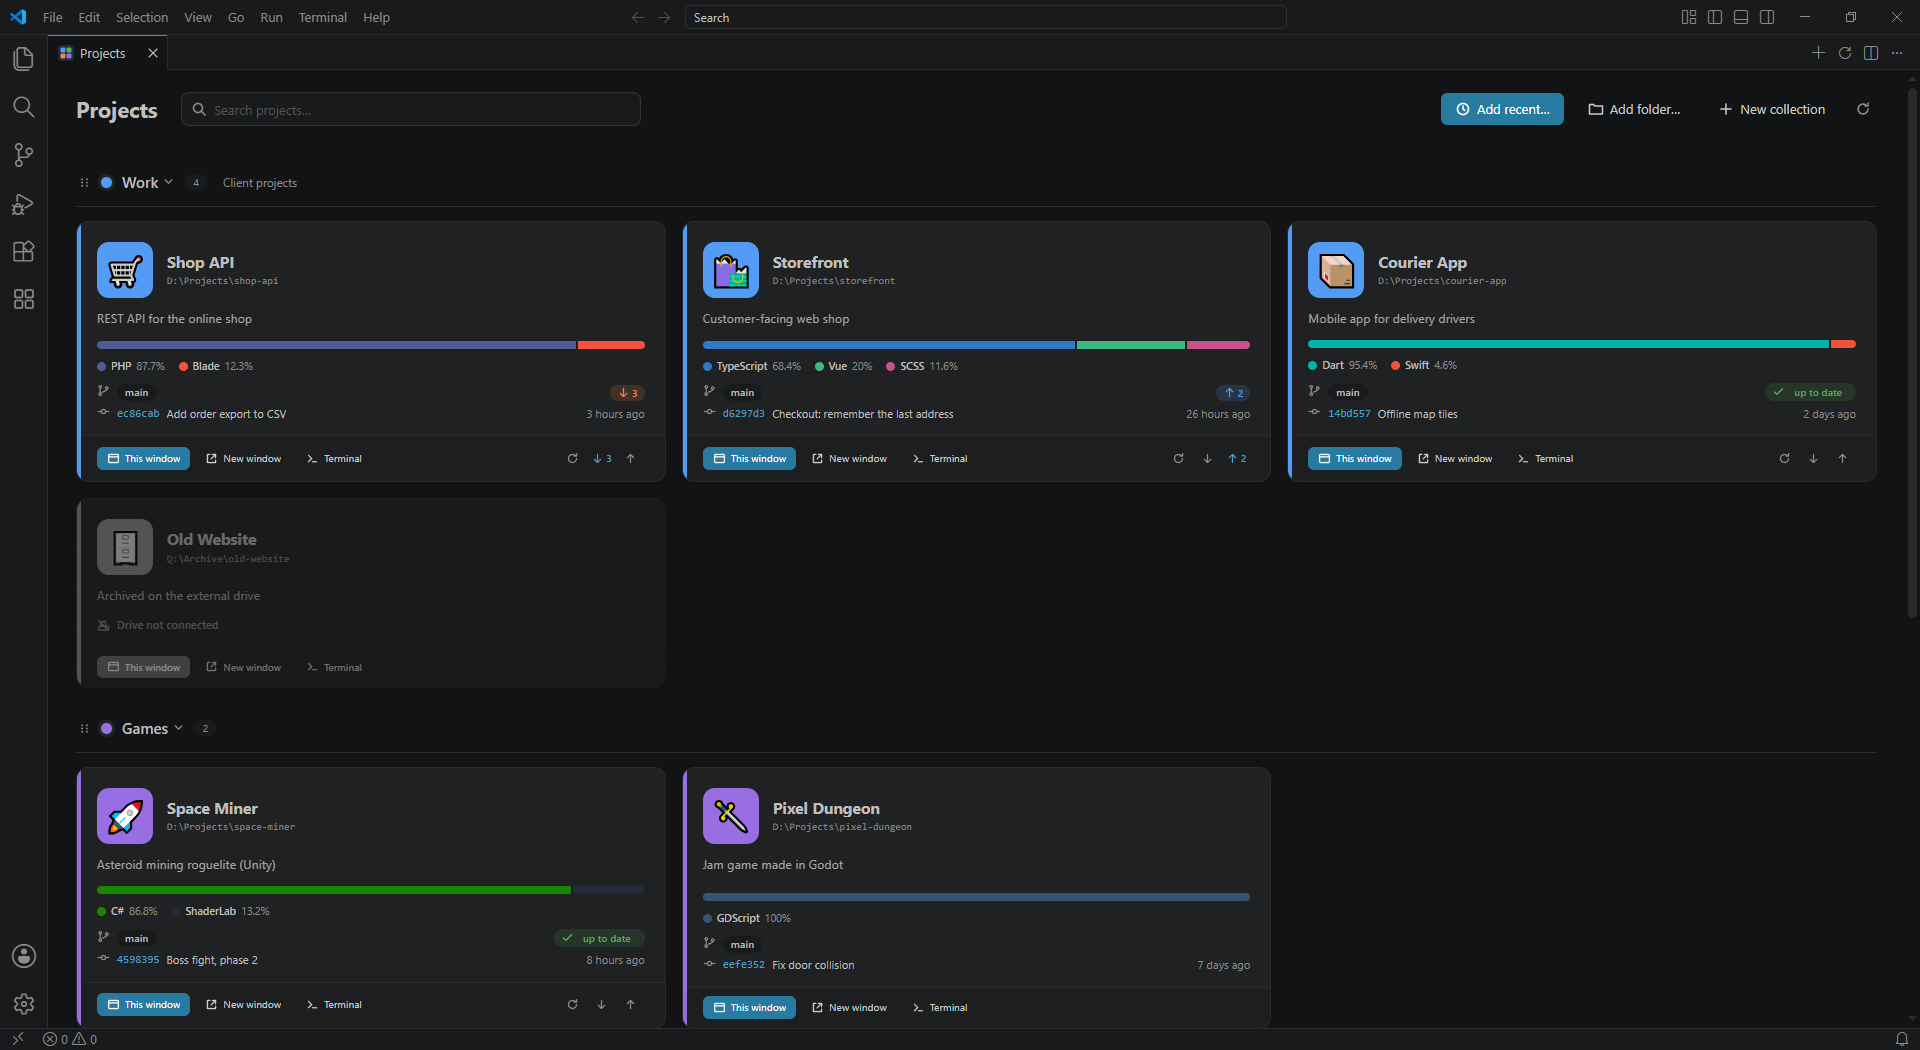
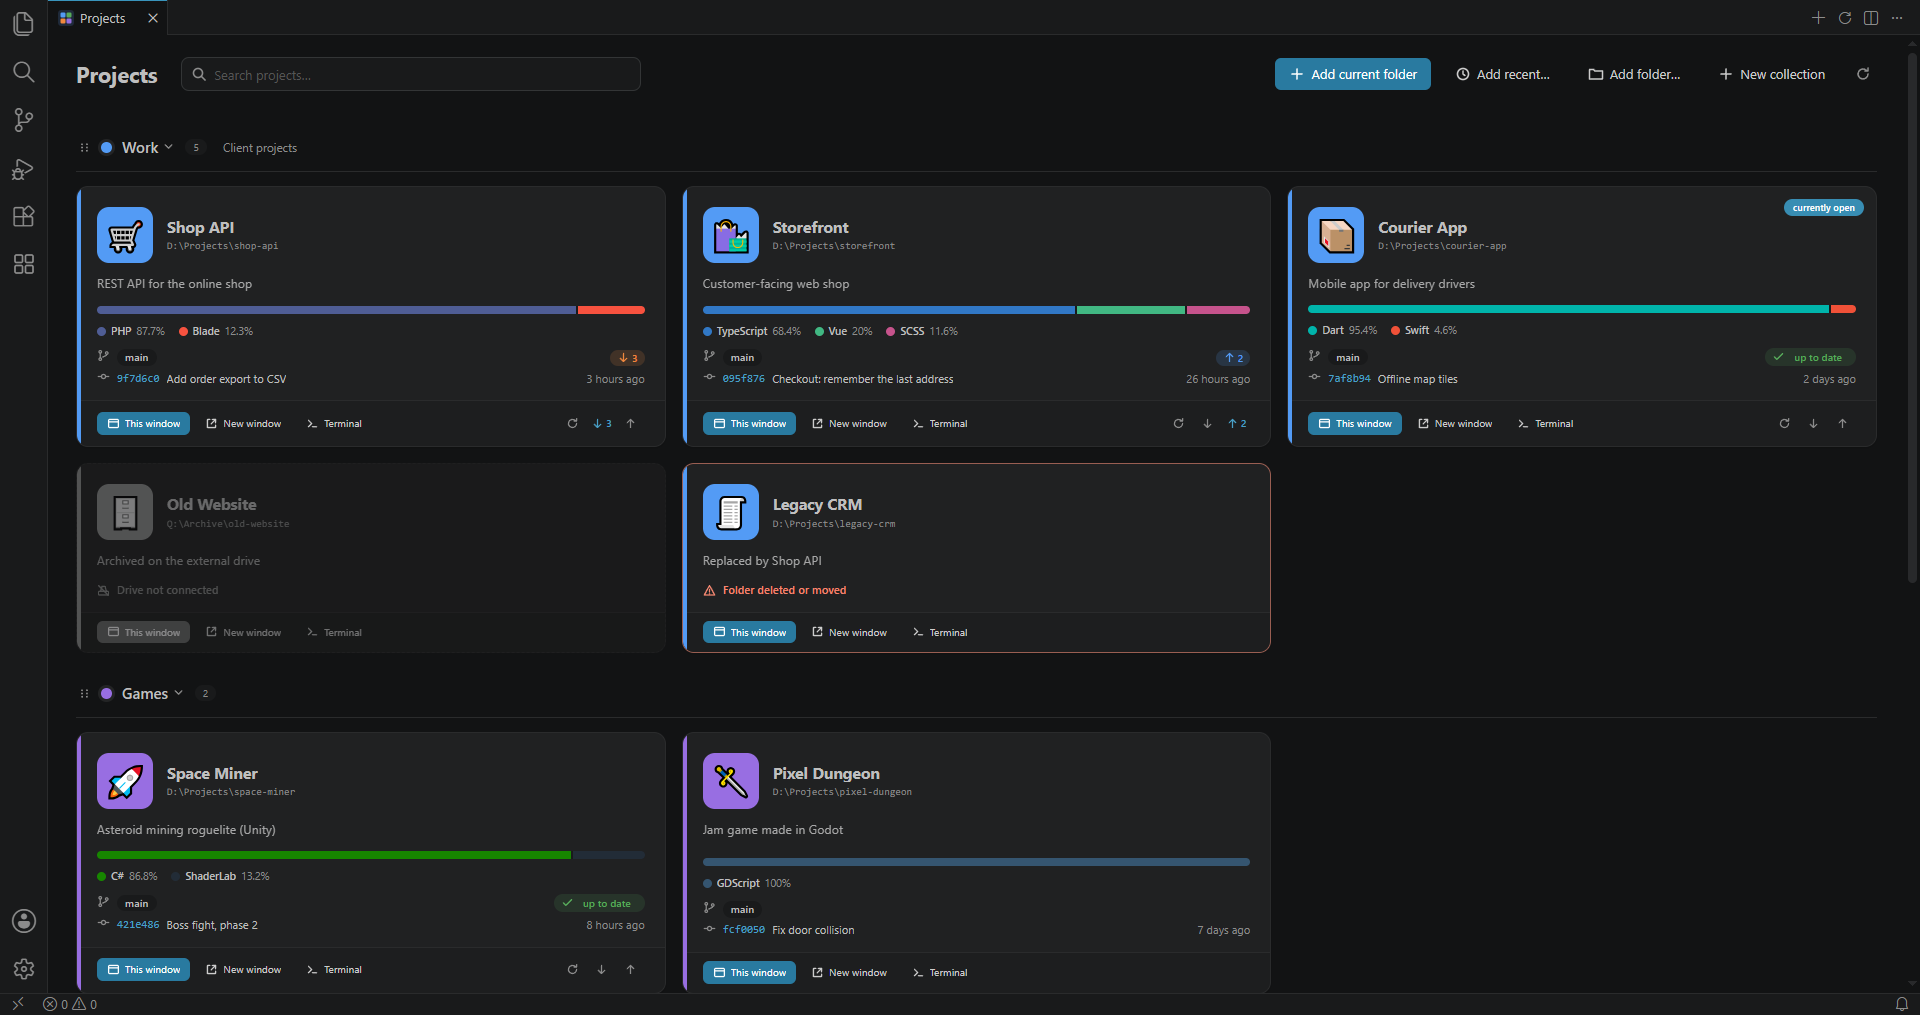
Open the dashboard in the JetBrains Home window (1.3.0)

diff --git a/jetbrains/src/main/kotlin/dominikmech/projecttiles/ui/HomeWindow.kt b/jetbrains/src/main/kotlin/dominikmech/projecttiles/ui/HomeWindow.kt
@@ -1,0 +1,53 @@
+package dominikmech.projecttiles.ui
+
+import com.intellij.openapi.application.ApplicationManager
+import com.intellij.openapi.application.EDT
+import com.intellij.openapi.diagnostic.logger
+import com.intellij.openapi.project.Project
+import com.intellij.openapi.project.ProjectManager
+import com.intellij.openapi.startup.ProjectActivity
+import dominikmech.projecttiles.settings.ProjectTilesSettings
+import kotlinx.coroutines.Dispatchers
+import kotlinx.coroutines.withContext
+
+/**
+ * The Home window of 2026.3+ IDEs (the non-modal welcome screen before that) is an ordinary frame around a hidden
+ * "welcome" project. The platform only offers an internal check for it, so it is looked up reflectively: if
+ * JetBrains renames it, the dashboard simply stops opening there on its own.
+ */
+object HomeWindow {
+    private const val PROVIDER = "com.intellij.openapi.wm.ex.WelcomeScreenProjectProvider"
+    // 2026.2+ calls it isWelcomeScreenProject, 2025.2 isSingleWelcomeScreenProject.
+    private val CHECKS = listOf("isWelcomeScreenProject", "isSingleWelcomeScreenProject")
+
+    private val check: ((Project) -> Boolean)? by lazy { resolve() }
+
+    fun isHome(project: Project): Boolean = check?.let { runCatching { it(project) }.getOrDefault(false) } ?: false
+
+    /** Opens the dashboard in every Home window that is already showing. */
+    fun openDashboardEverywhere() {
+        ProjectManager.getInstance().openProjects.filter { !it.isDisposed && isHome(it) }.forEach { DashboardOpener.getInstance(it).open() }
+    }
+
+    private fun resolve(): ((Project) -> Boolean)? {
+        val loaders = listOf(HomeWindow::class.java.classLoader, Project::class.java.classLoader, ApplicationManager.getApplication().javaClass.classLoader)
+        for (loader in loaders.distinct()) {
+            val provider = runCatching { Class.forName(PROVIDER, true, loader) }.getOrNull() ?: continue
+            val companion = runCatching { provider.getField("Companion").get(null) }.getOrNull() ?: continue
+            val method = CHECKS.firstNotNullOfOrNull { name -> runCatching { companion.javaClass.getMethod(name, Project::class.java) }.getOrNull() } ?: continue
+            return { project -> method.invoke(companion, project) as Boolean }
+        }
+        logger<HomeWindow>().info("Home window detection is not available in this IDE")
+        return null
+    }
+}
+
+/** Shows the dashboard in place of the Home window's start page (and its agent prompt). */
+class HomeWindowDashboard : ProjectActivity {
+    override suspend fun execute(project: Project) {
+        if (!ProjectTilesSettings.getInstance().openInHomeWindow || !HomeWindow.isHome(project)) return
+        withContext(Dispatchers.EDT) {
+            if (!project.isDisposed) DashboardOpener.getInstance(project).open()
+        }
+    }
+}

diff --git a/jetbrains/src/main/kotlin/dominikmech/projecttiles/settings/ProjectTilesConfigurable.kt b/jetbrains/src/main/kotlin/dominikmech/projecttiles/settings/ProjectTilesConfigurable.kt
@@ -10,6 +10,7 @@ import com.intellij.ui.dsl.builder.columns
 import com.intellij.ui.dsl.builder.panel
 import dominikmech.projecttiles.services.ProjectService
 import dominikmech.projecttiles.ui.DashboardView
+import dominikmech.projecttiles.ui.HomeWindow
 
 class ProjectTilesConfigurable : BoundConfigurable("Project Tiles") {
     private val state get() = ProjectTilesSettings.getInstance().state
@@ -17,6 +18,7 @@ class ProjectTilesConfigurable : BoundConfigurable("Project Tiles") {
     override fun createPanel(): DialogPanel = panel {
         group("Dashboard") {
             row { checkBox("Open projects in a new window by default").bindSelected(state::openInNewWindow) }
+            row { checkBox("Open the dashboard in the Home window (instead of its start page and agent prompt)").bindSelected(state::openInHomeWindow) }
             row("Preferred number of columns:") { intTextField(1..6).bindIntText(state::columns).columns(4) }
             row("Tile size:") { comboBox(listOf("normal", "compact")).bindItem({ state.tileSize ?: "normal" }, { state.tileSize = it ?: "normal" }) }
             row { checkBox("Show the folder path").bindSelected(state::showPath) }
@@ -45,8 +47,10 @@ class ProjectTilesConfigurable : BoundConfigurable("Project Tiles") {
     override fun apply() {
         val scanInputs = { listOf(state.languageIgnoreDirs, state.maxFilesScanned, state.fetchRemote, state.showGit, state.showLanguages) }
         val before = scanInputs()
+        val homeBefore = state.openInHomeWindow
         super.apply()
         if (scanInputs() != before) ProjectService.getInstance().metadata.invalidate()
         DashboardView.refreshAllViews()
+        if (state.openInHomeWindow && !homeBefore) HomeWindow.openDashboardEverywhere()
     }
 }

diff --git a/jetbrains/src/main/kotlin/dominikmech/projecttiles/actions/Actions.kt b/jetbrains/src/main/kotlin/dominikmech/projecttiles/actions/Actions.kt
@@ -8,6 +8,7 @@ import com.intellij.openapi.vfs.LocalFileSystem
 import dominikmech.projecttiles.services.ProjectService
 import dominikmech.projecttiles.ui.DashboardOpener
 import dominikmech.projecttiles.ui.DashboardView
+import dominikmech.projecttiles.ui.HomeWindow
 import dominikmech.projecttiles.ui.RecentProjectsImport
 
 /** Base for actions that need a project window (the dashboard tab lives in one). */
@@ -28,6 +29,10 @@ class OpenDashboardAction : ProjectAction() {
 class AddCurrentProjectAction : ProjectAction() {
     override fun actionPerformed(e: AnActionEvent) {
         DashboardOpener.getInstance(e.project ?: return).open()?.addCurrent()
+    }
+
+    override fun update(e: AnActionEvent) {
+        e.presentation.isEnabledAndVisible = e.project?.let { !HomeWindow.isHome(it) } ?: false
     }
 }
 

diff --git a/jetbrains/src/main/kotlin/dominikmech/projecttiles/settings/ProjectTilesSettings.kt b/jetbrains/src/main/kotlin/dominikmech/projecttiles/settings/ProjectTilesSettings.kt
@@ -9,6 +9,7 @@ import com.intellij.openapi.components.service
 
 class ProjectTilesState : BaseState() {
     var openInNewWindow by property(false)
+    var openInHomeWindow by property(true)
     var columns by property(3)
     var tileSize by string("normal")
     var showPath by property(true)
@@ -26,6 +27,7 @@ class ProjectTilesState : BaseState() {
 @State(name = "ProjectTiles", storages = [Storage("projectTiles.xml")])
 class ProjectTilesSettings : SimplePersistentStateComponent<ProjectTilesState>(ProjectTilesState()) {
     val openInNewWindow get() = state.openInNewWindow
+    val openInHomeWindow get() = state.openInHomeWindow
     val columns get() = state.columns.coerceIn(1, 6)
     val tileSize get() = if (state.tileSize == "compact") "compact" else "normal"
     val showPath get() = state.showPath

diff --git a/jetbrains/src/main/kotlin/dominikmech/projecttiles/ui/DashboardView.kt b/jetbrains/src/main/kotlin/dominikmech/projecttiles/ui/DashboardView.kt
@@ -344,7 +344,9 @@ class DashboardView(private val ideProject: IdeProject?) : Disposable {
         }
     }
 
-    private fun currentFolder(): String? = ideProject?.basePath?.let { Path.of(it).toString() }
+    /** The open project's folder; none on the welcome screen or in the Home window, whose project is hidden. */
+    private fun currentFolder(): String? =
+        ideProject?.takeUnless { HomeWindow.isHome(it) }?.basePath?.let { Path.of(it).toString() }
 
     /** Edits the open project's existing entry, or opens a form pre-filled with it. */
     fun addCurrent() {

diff --git a/README.md b/README.md
@@ -70,8 +70,10 @@ Tip: bind `projectTiles.open` to a key, e.g. `Ctrl+Alt+P`.
 | `projectTiles.maxFilesScanned` | `15000` | Upper bound on files inspected per project for language detection |
 | `projectTiles.languageIgnoreDirs` | `node_modules`, `Library`, `obj`, … | Directories skipped during language detection |
 
-In JetBrains IDEs the same options are under *Settings | Tools | Project Tiles*. Each project can override the
-four `show…` settings in its edit form (*Show on the tile*: Default / Show / Hide).
+In JetBrains IDEs the same options are under *Settings | Tools | Project Tiles*, plus *Open the dashboard in the
+Home window*: on by default, it shows the dashboard in the Home window of 2026.3 IDEs instead of the start page and
+agent prompt. Each project can override the four `show…` settings in its edit form (*Show on the tile*: Default /
+Show / Hide).
 
 ## Data and privacy
 

diff --git a/CHANGELOG.md b/CHANGELOG.md
@@ -1,5 +1,11 @@
 # Changelog
 
+## 1.3.0 — 2026-11-17
+
+- JetBrains: the dashboard opens in the **Home window** of 2026.3 IDEs (and the non-modal welcome screen of
+  earlier ones), in place of the start page and its agent prompt. Turn it off in *Settings | Tools | Project Tiles*.
+- JetBrains: in the Home window the dashboard no longer offers to add the hidden welcome project as the current folder.
+
 ## 1.2.0 — 2026-11-06
 
 - **Per-tile visibility**: each project can show or hide its path, description, languages and git status
